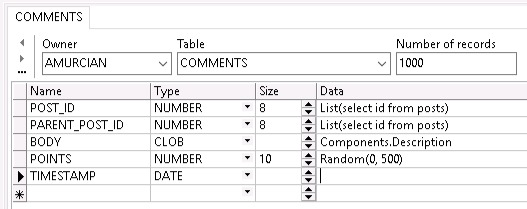
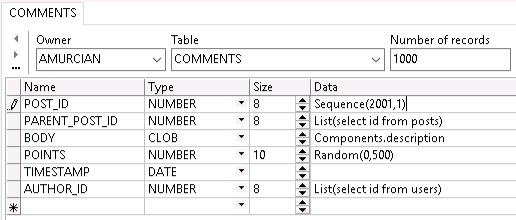
finished inbox query

Changed region(s): [[0.0, 0.0, 1.0, 1.0]]

diff --git a/latex/second-stage/1.queries.tex b/latex/second-stage/1.queries.tex
@@ -23,7 +23,7 @@ What follows is a description of some queries that will need to be retrieved fro
 	Similar to the previous one, whenever any post is loaded, we would need to query for all the comments on that post. \emph{Select all comments whose parent post has a certain ID}.
 
 	\item
-	A user may be interested in viewing all the answers that have been given to the questions they ask, in an `inbox' fashion. \emph{Obtain all answers to questions which were asked by a certain user, sorted from newest to oldest}.
+	A user may be interested in viewing all the answers that have been given to the questions they ask, together with any comments on any of their posts, in an `inbox' fashion. \emph{Obtain all answers to questions as well as all comments to posts which were posted by a certain user, sorted from newest to oldest}.
 
 	\item
 	Ask Us is interested in sending out a weekly newsletter containing the most popular questions with one of their answers each from the previous week. A query which would obtain these questions would look like this. \emph{Obtain a certain number questions, as well as each of their highest voted answers, which were posted between two weeks ago and one week ago, and received the most votes within a week of their posting}.
